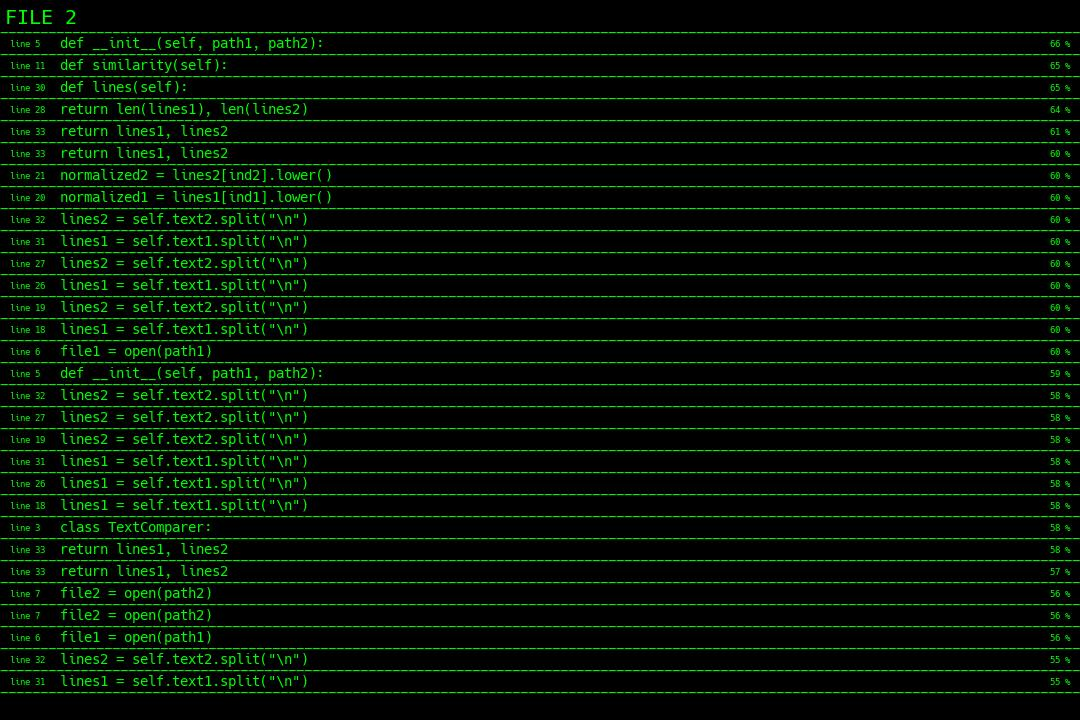
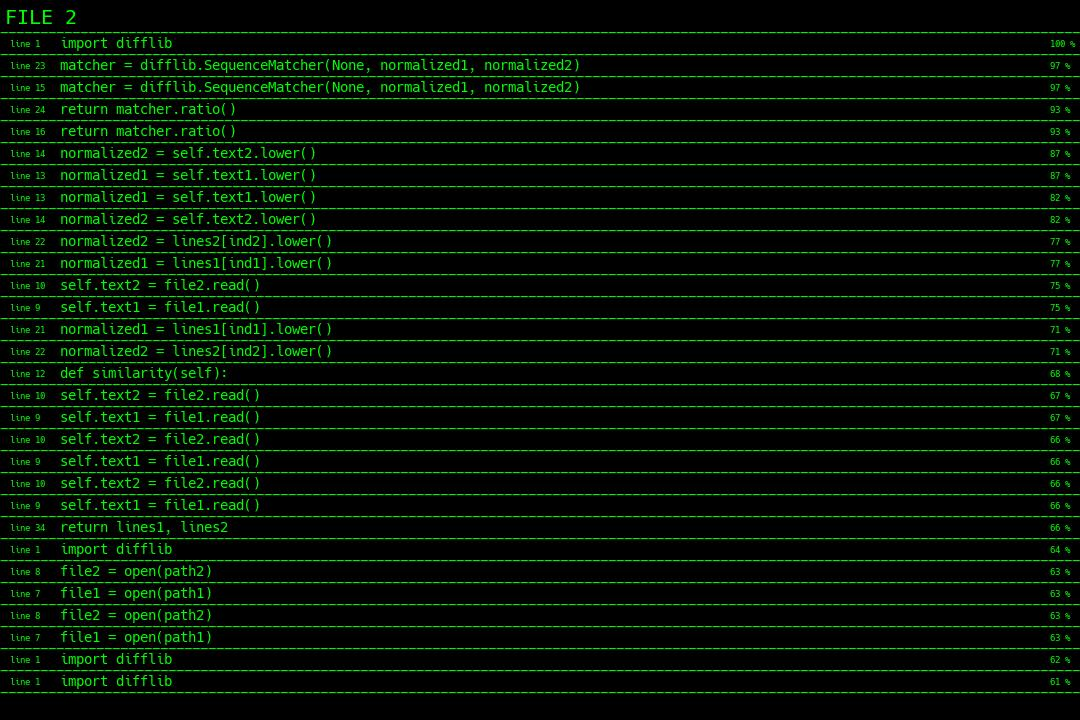
pics generation

Changed region(s): [[0.0306, 0.0306, 0.55, 0.825], [0.0306, 0.8861, 0.275, 0.9778], [0.9778, 0.0306, 1.0, 0.0917]]

diff --git a/application.py b/application.py
@@ -26,7 +26,7 @@ def code_to_image(lines, line_number, percentage, n):
 
         font = ImageFont.truetype("fonts/Hack-Regular.ttf", size=9)
         idraw = ImageDraw.Draw(img)
-        idraw.text((10, 38 + i * 22), "line " + str(line_number[i]), font=font, fill=(0, 255, 0))
+        idraw.text((10, 38 + i * 22), "line " + str(line_number[i]+1), font=font, fill=(0, 255, 0))
         font = ImageFont.truetype("fonts/Hack-Regular.ttf", size=9)
         idraw = ImageDraw.Draw(img)
         idraw.text((1050, 38 + i * 22), str(round(percentage[i]*100)) + " %", font=font, fill=(0, 255, 0))
@@ -75,4 +75,4 @@ def pics_gen(path1, path2):
     return sim
 
 
-pics_gen('application.py', 'text_comparer.py')
+pics_gen('MongoDB.py', 'text_comparer.py')
